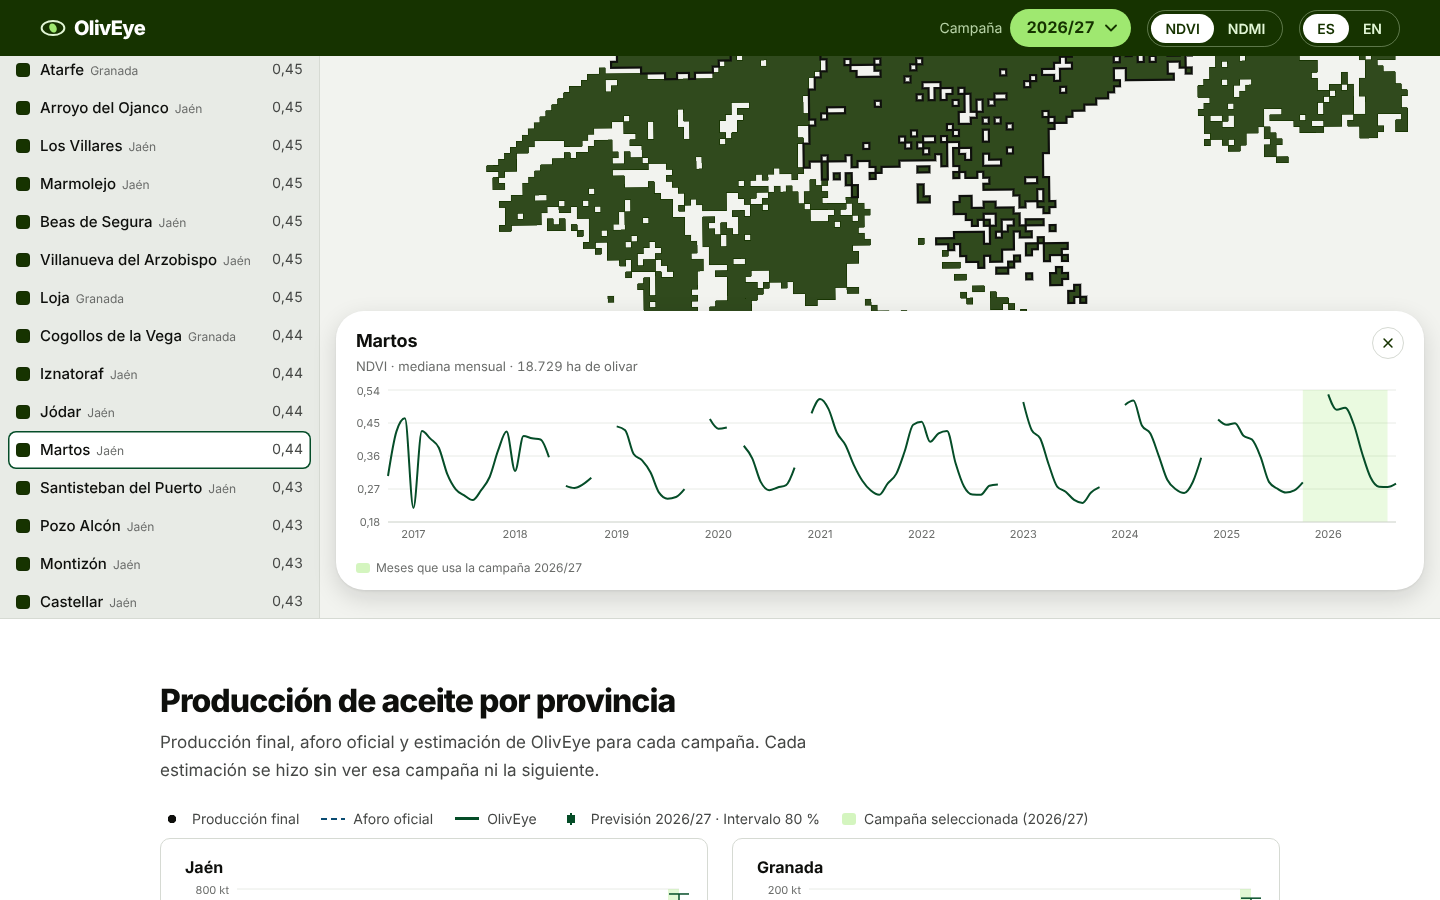
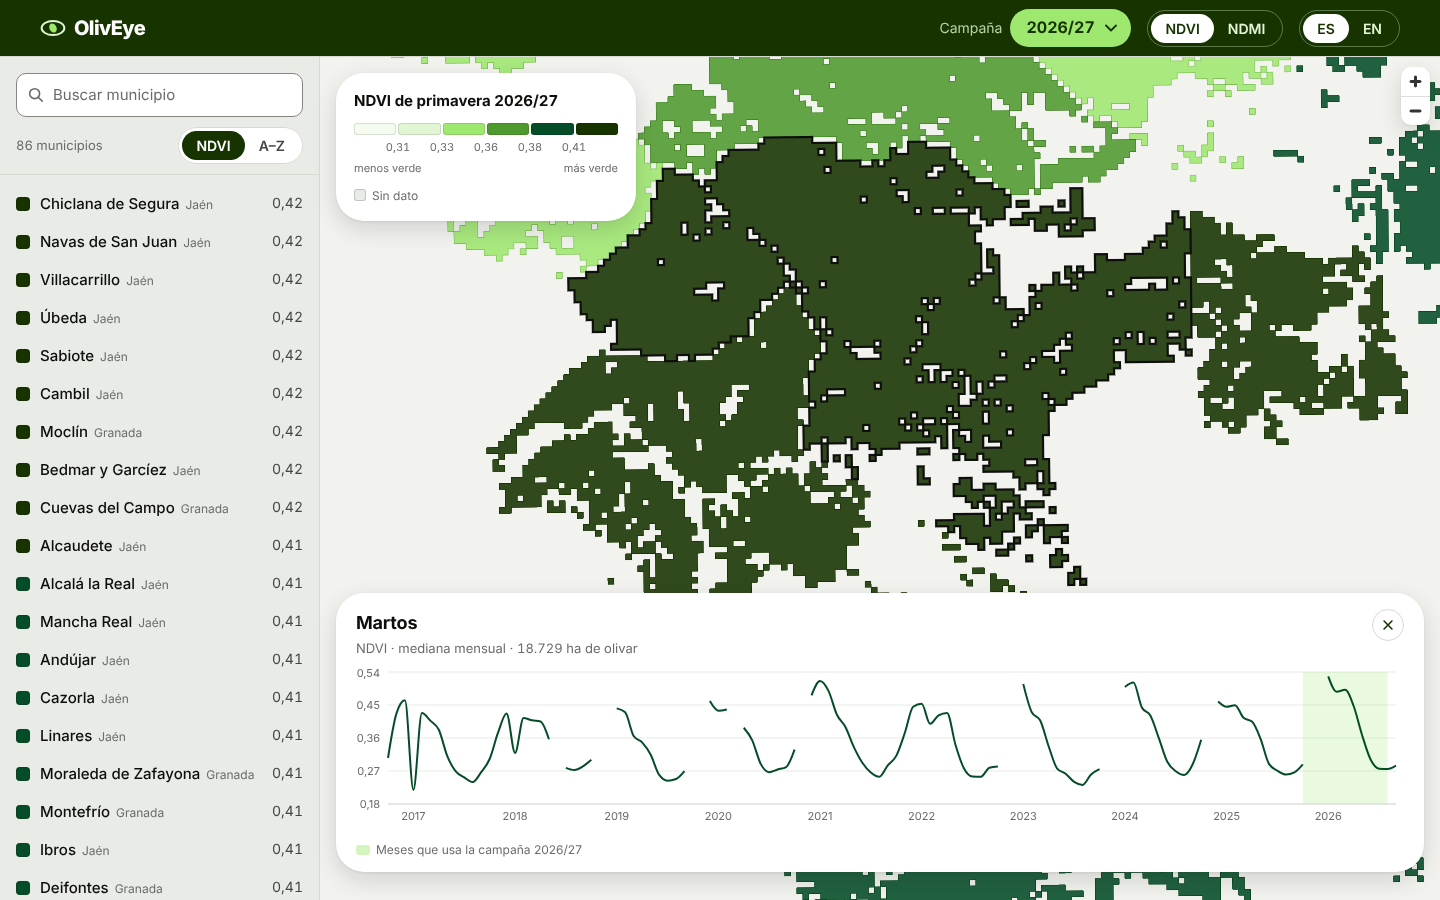
fix(web): bring the series drawer into view on any width; top-align tiles

diff --git a/web/components/Workbench.tsx b/web/components/Workbench.tsx
@@ -57,12 +57,13 @@ export function Workbench({
   }, [features, index, campaign, query, sort, lang]);
 
   const mapArea = useRef<HTMLDivElement>(null);
-  // On narrow screens the map sits below the list: scroll so the series drawer is visible.
+  // After a selection, scroll just enough for the series drawer (at the map's bottom) to show.
   const select = useCallback(
     (id: string | null) => {
       onSelect(id);
-      if (id && window.matchMedia("(max-width: 860px)").matches) {
-        mapArea.current?.scrollIntoView({ behavior: "smooth", block: "end" });
+      const area = mapArea.current;
+      if (id && area && area.getBoundingClientRect().bottom > window.innerHeight) {
+        area.scrollIntoView({ behavior: "smooth", block: "end" });
       }
     },
     [onSelect],

diff --git a/web/components/Verdict.module.css b/web/components/Verdict.module.css
@@ -36,6 +36,7 @@
 .compare {
   display: grid;
   grid-template-columns: minmax(0, 1.15fr) minmax(0, 1fr);
+  align-items: start;
   gap: 16px;
 }
 
